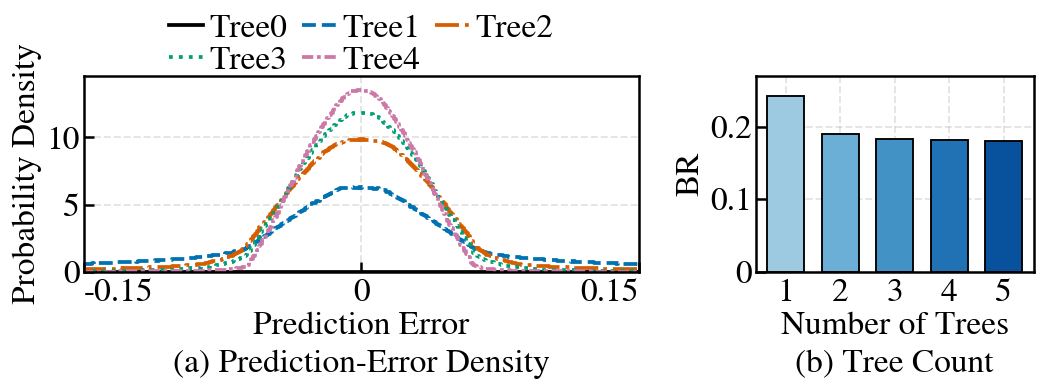
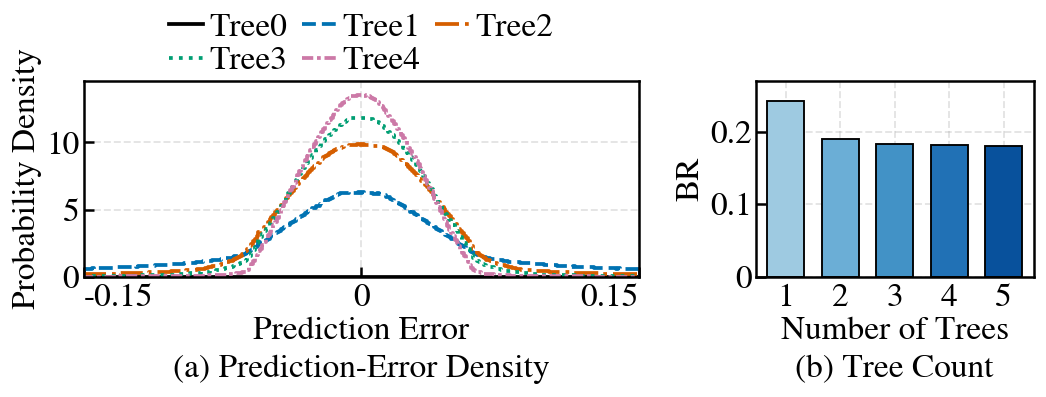
Standardize measured legend spacing

diff --git a/src/paperfig/layout.py b/src/paperfig/layout.py
@@ -1,5 +1,6 @@
 import matplotlib.pyplot as plt
-from .spec import DEFAULT_PANEL_ASPECT_RATIO,MPL_POINTS_PER_INCH
+from matplotlib.font_manager import FontProperties
+from .spec import DEFAULT_LEGEND_GAP_PT,DEFAULT_LEGEND_ROW_GAP_PT,DEFAULT_PANEL_ASPECT_RATIO,MPL_POINTS_PER_INCH
 
 def paper_subplots(spec,nrows=1,ncols=1,left_pt=0,right_pt=0,bottom_pt=0,top_pt=0,column_gap_pt=0,row_gap_pt=0,width_ratios=None,height_ratios=None,squeeze=True):
     axes_width_pt=spec.width_pt-left_pt-right_pt-(ncols-1)*column_gap_pt
@@ -14,12 +15,42 @@ def paper_subplots(spec,nrows=1,ncols=1,left_pt=0,right_pt=0,bottom_pt=0,top_pt=
     figure.subplots_adjust(left=left_pt/spec.width_pt,right=1-right_pt/spec.width_pt,bottom=bottom_pt/spec.height_pt,top=1-top_pt/spec.height_pt,wspace=wspace,hspace=hspace)
     return figure,axes
 
-def legend_above(axis,*args,gap_pt=2,**kwargs):
+def _legend_font_size_pt(kwargs):
+    font_size=kwargs.get("fontsize",plt.rcParams["legend.fontsize"])
+    return FontProperties(size=font_size).get_size_in_points()
+
+def _visible_legend_row_gap_pt(legend):
+    legend.figure.canvas.draw()
+    renderer=legend.figure.canvas.get_renderer()
+    bboxes=[text.get_window_extent(renderer) for text in legend.get_texts() if text.get_visible() and text.get_text()]
+    rows=[]
+    for bbox in sorted(bboxes,key=lambda item:item.y0,reverse=True):
+        center=(bbox.y0+bbox.y1)/2
+        if not rows or abs(center-rows[-1][0])>0.5:rows.append([center,[bbox]])
+        else:rows[-1][1].append(bbox)
+    if len(rows)<2:return None
+    gaps=[min(bbox.y0 for bbox in upper[1])-max(bbox.y1 for bbox in lower[1]) for upper,lower in zip(rows,rows[1:])]
+    return min(gaps)*MPL_POINTS_PER_INCH/legend.figure.dpi
+
+def set_legend_row_gap(legend,row_gap_pt=DEFAULT_LEGEND_ROW_GAP_PT):
+    visible_gap_pt=_visible_legend_row_gap_pt(legend)
+    if visible_gap_pt is None:return legend
+    correction_pt=row_gap_pt-visible_gap_pt
+    for column in legend._legend_handle_box.get_children():
+        if hasattr(column,"sep"):column.sep+=correction_pt
+    legend.figure.canvas.draw()
+    return legend
+
+def legend_above(axis,*args,gap_pt=DEFAULT_LEGEND_GAP_PT,row_gap_pt=DEFAULT_LEGEND_ROW_GAP_PT,**kwargs):
     axes_height_pt=axis.get_position().height*axis.figure.get_figheight()*MPL_POINTS_PER_INCH
     kwargs.setdefault("loc","lower center")
     kwargs.setdefault("bbox_to_anchor",(0.5,1+gap_pt/axes_height_pt))
     kwargs.setdefault("borderaxespad",0)
-    return axis.legend(*args,**kwargs)
+    kwargs.setdefault("borderpad",0)
+    font_size_pt=_legend_font_size_pt(kwargs)
+    kwargs["labelspacing"]=row_gap_pt/font_size_pt
+    legend=axis.legend(*args,**kwargs)
+    return set_legend_row_gap(legend,row_gap_pt)
 
 def _flatten_axes(axes):
     if hasattr(axes,"flat"):return list(axes.flat)

diff --git a/src/paperfig/__init__.py b/src/paperfig/__init__.py
@@ -1,6 +1,6 @@
-from .layout import add_panel_captions,add_shared_xlabel,align_xlabels,layout_panel_row,legend_above,panel_aspect_ratios,paper_subplots
+from .layout import add_panel_captions,add_shared_xlabel,align_xlabels,layout_panel_row,legend_above,panel_aspect_ratios,paper_subplots,set_legend_row_gap
 from .output import save_paper_png,save_paper_png_vertical_crop,validate_figure_bounds
-from .spec import DEFAULT_PANEL_ASPECT_RATIO,MPL_POINTS_PER_INCH,PAPER_COLUMN_WIDTH_PT,PAPER_FONT_SIZE,PAPER_TEXT_WIDTH_IN,PAPER_TEXT_WIDTH_PT,RASTER_DPI,TEX_POINTS_PER_INCH,PaperFigureSpec
+from .spec import DEFAULT_LEGEND_GAP_PT,DEFAULT_LEGEND_ROW_GAP_PT,DEFAULT_PANEL_ASPECT_RATIO,MPL_POINTS_PER_INCH,PAPER_COLUMN_WIDTH_PT,PAPER_FONT_SIZE,PAPER_TEXT_WIDTH_IN,PAPER_TEXT_WIDTH_PT,RASTER_DPI,TEX_POINTS_PER_INCH,PaperFigureSpec
 from .style import apply_paper_style,style_plot_axis
 
-__all__=["DEFAULT_PANEL_ASPECT_RATIO","MPL_POINTS_PER_INCH","PAPER_COLUMN_WIDTH_PT","PAPER_FONT_SIZE","PAPER_TEXT_WIDTH_IN","PAPER_TEXT_WIDTH_PT","RASTER_DPI","TEX_POINTS_PER_INCH","PaperFigureSpec","add_panel_captions","add_shared_xlabel","align_xlabels","apply_paper_style","layout_panel_row","legend_above","panel_aspect_ratios","paper_subplots","save_paper_png","save_paper_png_vertical_crop","style_plot_axis","validate_figure_bounds"]
+__all__=["DEFAULT_LEGEND_GAP_PT","DEFAULT_LEGEND_ROW_GAP_PT","DEFAULT_PANEL_ASPECT_RATIO","MPL_POINTS_PER_INCH","PAPER_COLUMN_WIDTH_PT","PAPER_FONT_SIZE","PAPER_TEXT_WIDTH_IN","PAPER_TEXT_WIDTH_PT","RASTER_DPI","TEX_POINTS_PER_INCH","PaperFigureSpec","add_panel_captions","add_shared_xlabel","align_xlabels","apply_paper_style","layout_panel_row","legend_above","panel_aspect_ratios","paper_subplots","save_paper_png","save_paper_png_vertical_crop","set_legend_row_gap","style_plot_axis","validate_figure_bounds"]

diff --git a/tests/test_geometry.py b/tests/test_geometry.py
@@ -6,7 +6,7 @@ import matplotlib
 matplotlib.use("Agg")
 import matplotlib.image as mpimg
 import matplotlib.pyplot as plt
-from paperfig import PaperFigureSpec,apply_paper_style,layout_panel_row,panel_aspect_ratios,save_paper_png_vertical_crop,style_plot_axis
+from paperfig import DEFAULT_LEGEND_GAP_PT,DEFAULT_LEGEND_ROW_GAP_PT,MPL_POINTS_PER_INCH,PaperFigureSpec,apply_paper_style,layout_panel_row,legend_above,panel_aspect_ratios,save_paper_png_vertical_crop,style_plot_axis
 
 class GeometryTest(unittest.TestCase):
     def test_default_panel_spans(self):
@@ -40,6 +40,23 @@ class GeometryTest(unittest.TestCase):
             visible_rows=(image[:,:,:3]<0.98).any(axis=2).any(axis=1).nonzero()[0]
             self.assertGreaterEqual(visible_rows[0],8)
             self.assertLessEqual(visible_rows[-1],image.shape[0]-9)
+        plt.close(figure)
+
+    def test_default_legend_gaps_use_physical_points(self):
+        apply_paper_style()
+        figure,axis=plt.subplots(figsize=(4,4),dpi=300)
+        axis.plot([0,1],[0,1],label="First")
+        axis.plot([0,1],[1,0],label="Second")
+        legend=legend_above(axis,ncol=1,frameon=False)
+        figure.canvas.draw()
+        renderer=figure.canvas.get_renderer()
+        axis_bbox=axis.get_window_extent(renderer)
+        legend_bbox=legend.get_window_extent(renderer)
+        legend_gap_pt=(legend_bbox.y0-axis_bbox.y1)*MPL_POINTS_PER_INCH/figure.dpi
+        text_bboxes=[text.get_window_extent(renderer) for text in legend.get_texts()]
+        row_gap_pt=(text_bboxes[0].y0-text_bboxes[1].y1)*MPL_POINTS_PER_INCH/figure.dpi
+        self.assertAlmostEqual(legend_gap_pt,DEFAULT_LEGEND_GAP_PT,places=10)
+        self.assertAlmostEqual(row_gap_pt,DEFAULT_LEGEND_ROW_GAP_PT,places=10)
         plt.close(figure)
 
 if __name__=="__main__":unittest.main()

diff --git a/examples/fdwz_tree_ablation/plot.py b/examples/fdwz_tree_ablation/plot.py
@@ -19,7 +19,6 @@ PANEL_GAP_PT=9.0
 LEFT_EDGE_GAP_PT=3.0
 RIGHT_EDGE_GAP_PT=3.0
 PANEL_CAPTION_GAP_PT=2.0
-LEGEND_GAP_PT=0.0
 VERTICAL_EDGE_GAP_PT=3.0
 
 tree_colors=["#000000","#0072B2","#D55E00","#009E73","#CC79A7"]
@@ -86,7 +85,7 @@ def make_figure():
     left_axis.get_xticklabels()[-1].set_horizontalalignment("right")
     draw_tree_count_bars(right_axis)
     layout_panel_row(figure,axes,panel_aspect_ratios(2,1),bottom_pt=30,panel_gap_pt=PANEL_GAP_PT,left_edge_gap_pt=LEFT_EDGE_GAP_PT,right_edge_gap_pt=RIGHT_EDGE_GAP_PT)
-    legend_above(left_axis,legend_handles,legend_labels,gap_pt=LEGEND_GAP_PT,ncol=3,frameon=False,borderpad=0,handlelength=1,handletextpad=0.2,columnspacing=0.45,labelspacing=0.05)
+    legend_above(left_axis,legend_handles,legend_labels,ncol=3,frameon=False,handlelength=1,handletextpad=0.2,columnspacing=0.45)
     for axis in axes:
         axis.set_axisbelow(True)
         axis.grid(True,linestyle="--",linewidth=0.45,alpha=0.35)

diff --git a/src/paperfig/spec.py b/src/paperfig/spec.py
@@ -9,6 +9,8 @@ PAPER_TEXT_WIDTH_IN=PAPER_TEXT_WIDTH_PT/TEX_POINTS_PER_INCH
 RASTER_DPI=300
 PAPER_FONT_SIZE=8.0
 DEFAULT_PANEL_ASPECT_RATIO=math.sqrt(2)
+DEFAULT_LEGEND_GAP_PT=1.0
+DEFAULT_LEGEND_ROW_GAP_PT=1.0
 
 @dataclass(frozen=True)
 class PaperFigureSpec:

diff --git a/README.md b/README.md
@@ -9,10 +9,12 @@
 - IEEE-style column width: 252 TeX pt.
 - IEEE-style text width: 516 TeX pt.
 - One panel slot has a plot-area width-to-height ratio of `sqrt(2)`.
+- The default gap from a legend to its plot area is 1 pt, and the default gap between legend rows is 1 pt.
 - A normal three-panel row uses spans `(1,1,1)`.
 - A panel occupying two slots beside a one-slot panel uses spans `(2,1)`, producing aspect ratios `(2*sqrt(2),sqrt(2))`.
 - The provisional canvas is square. Export keeps its full fixed width and crops only the top and bottom.
 - Distances are measured from rendered artist bounding boxes, so ordinary decimals and math-text tick labels are handled consistently.
+- `set_legend_row_gap` applies the same measured row spacing to legends created directly with Matplotlib.
 
 ## Installation
 

diff --git a/AGENTS.md b/AGENTS.md
@@ -9,6 +9,7 @@
 - Preserve the full horizontal canvas so LaTeX scaling does not change the font size.
 - Crop only vertical whitespace with `save_paper_png_vertical_crop`.
 - Specify tick, label, caption, legend, panel, and outer-edge distances in points.
+- Use 1 pt for the default legend-to-plot and legend-row gaps.
 - Keep data loading and domain-specific labels, colors, and plotting logic in the parent project.
 - Do not use `bbox_inches="tight"` for final paper figures because it can change the exported width.
 - Run the geometry tests after changing layout code.
